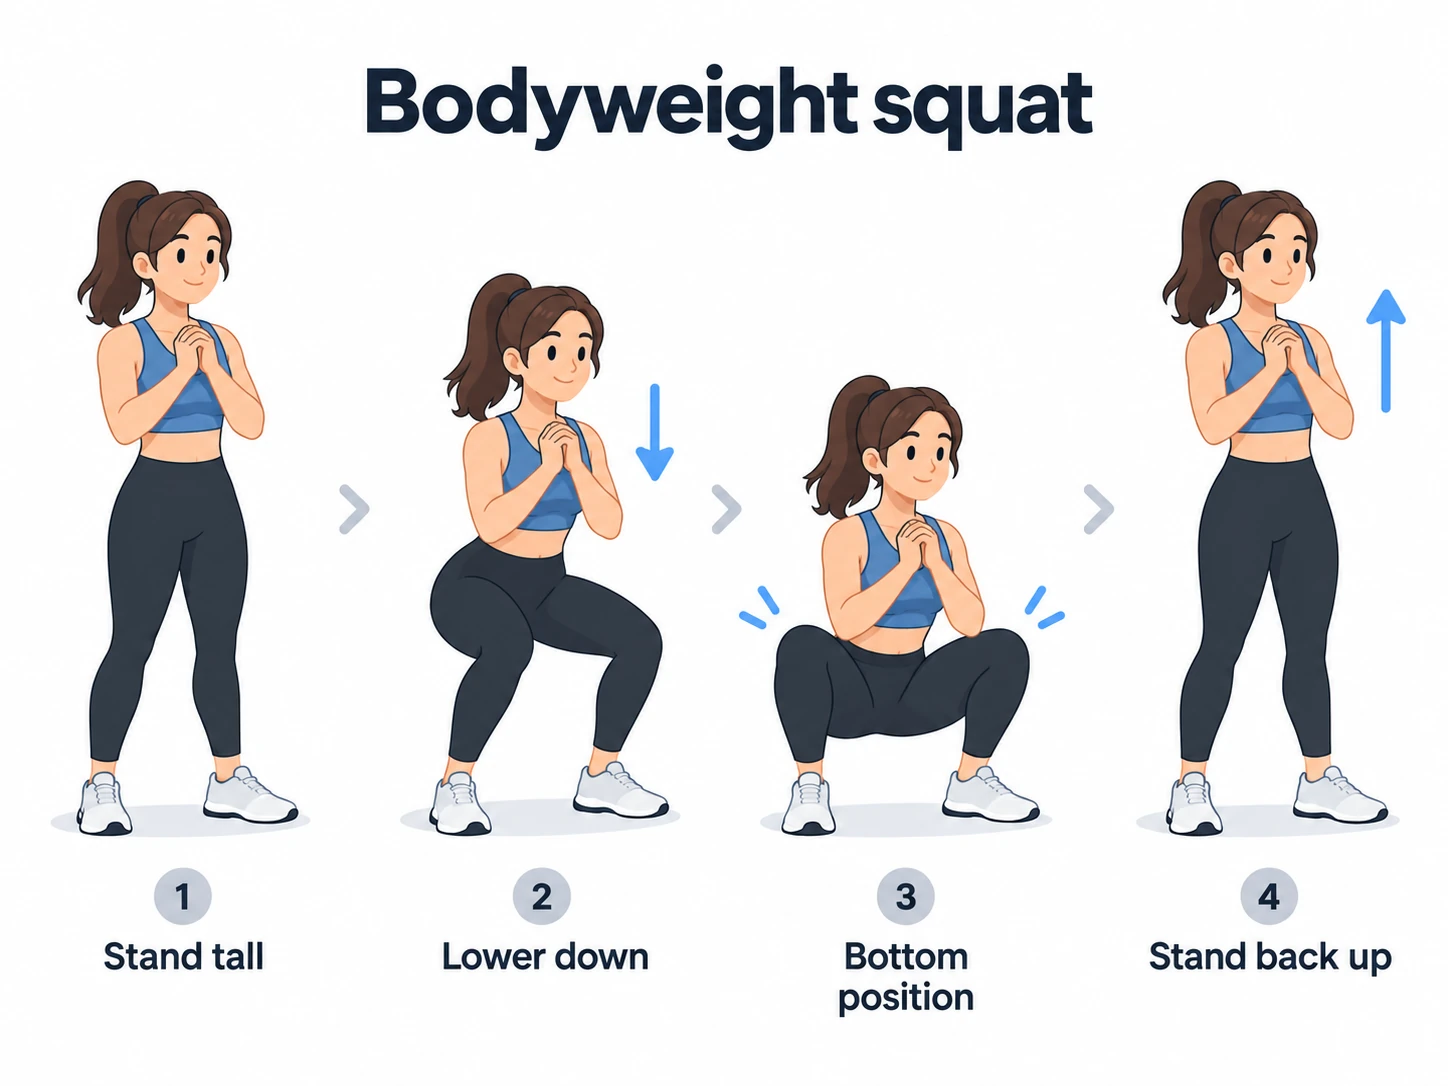
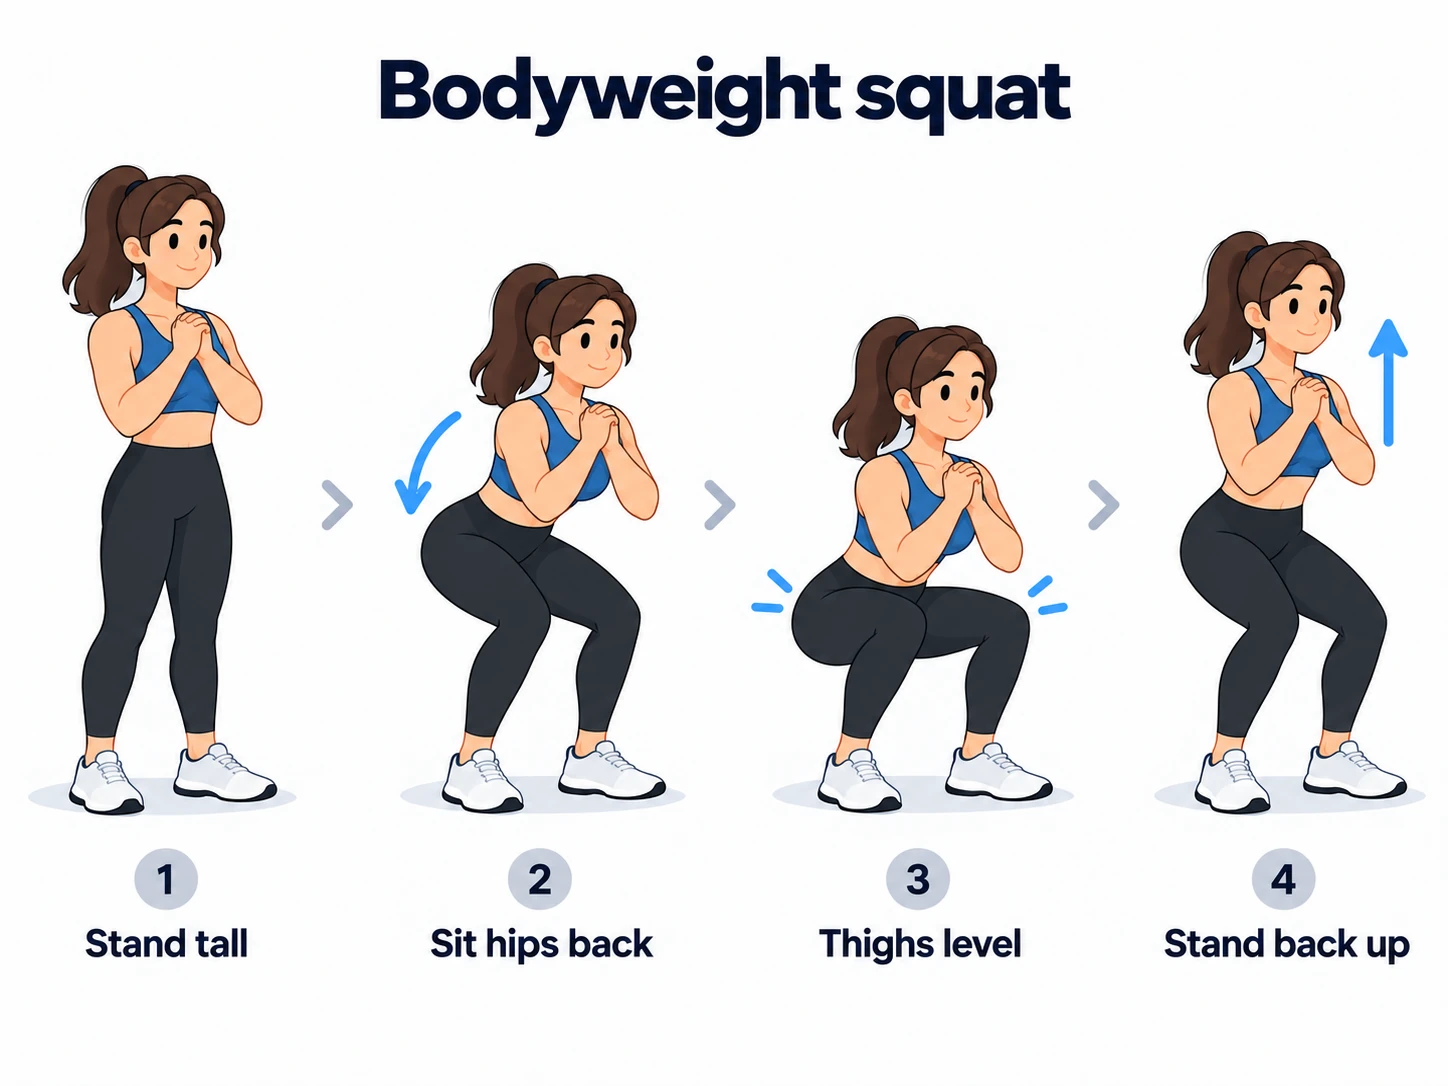
Exercise art: batch 2 (10 approved; 4 replace batch 1 redos)
Claude-Session: https://claude.ai/code/session_01CqZV8RyGpenEKtUL7y3i5z

diff --git a/art/exercises/README.md b/art/exercises/README.md
@@ -3,9 +3,13 @@
 Full-size originals, kept here so they are never lost. Not loaded by the app:
 when an exercise card uses one, a smaller copy is made for `public/`.
 
-Batch 1, from ChatGPT (Oct 19, 2026). Approved: dumbbell Romanian deadlift,
-dumbbell swing, glute bridge, single-leg glute bridge, single-leg Romanian
-deadlift, wall sit. To be replaced by Batch 2 redos: bodyweight squat,
-dumbbell front squat, hip thrust on bench, Bulgarian split squat.
+Batch 1, from ChatGPT (Oct 19, 2026): dumbbell Romanian deadlift, dumbbell
+swing, glute bridge, single-leg glute bridge, single-leg Romanian deadlift,
+wall sit.
+
+Batch 2 (Oct 19, 2026), all approved: bodyweight squat, dumbbell front squat,
+hip thrust on bench and Bulgarian split squat (redone, replacing batch 1's),
+goblet squat, reverse lunge, step-up onto bench, lateral lunge, single-leg
+calf raise, farmer carry.
 
 The prompt that makes the rest is `chatgpt_prompt.txt`.
